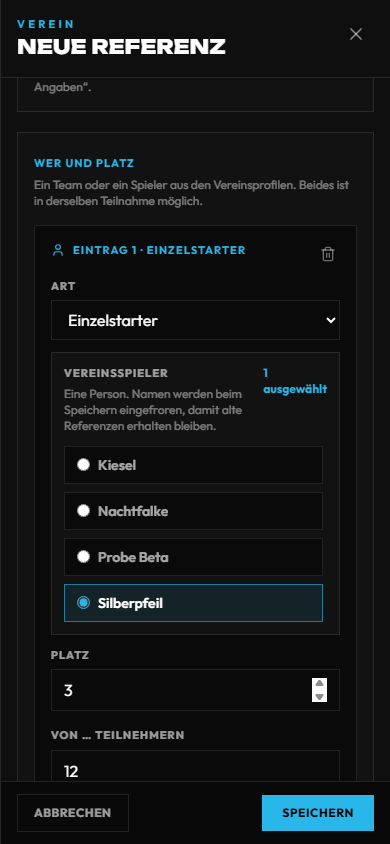
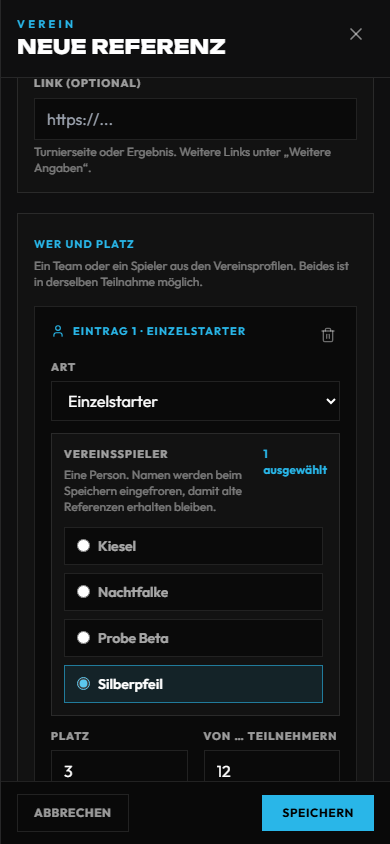
feat: Referenzen – Platz und „von N“ auch am Handy nebeneinander (#1936)
Im Schnell-Eintrag stehen die beiden kurzen Zahlenfelder in einer Zeile, die
Eingabefelder bündig, auch wenn die Beschriftung bei 360 px umbricht. Das
Handbuch-Bild zeigt den neuen Stand.

diff --git a/frontend/src/pages/admin/AdminReferencesPage.jsx b/frontend/src/pages/admin/AdminReferencesPage.jsx
@@ -884,7 +884,8 @@ function QuickEntry({ entry, index, profiles, suggestions, onChange, onRemove, w
         single={isSolo}
         testIdPrefix={`reference-entry-${index}`}
       />
-      <FormGrid>
+      {/* Platz und „von N“ auch am Handy nebeneinander (#1936): zwei kurze Zahlen, eine Zeile. */}
+      <FormGrid className="grid-cols-2 items-end">
         <TextField label="Platz" type="number" min="1" value={entry.placement} onChange={(v) => onChange({ placement: v })} testId={`reference-entry-${index}-placement`} />
         <TextField label={count === "team_count" ? "von … Teams" : "von … Teilnehmern"} type="number" min="1" value={entry[count]} onChange={(v) => onChange({ [count]: v })} testId={`reference-entry-${index}-count`} />
       </FormGrid>
